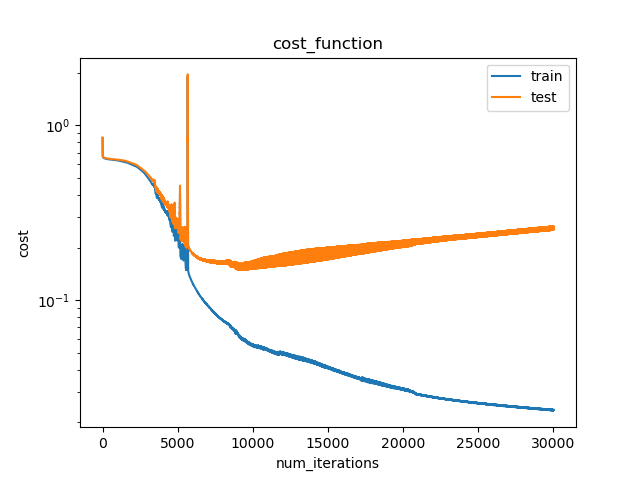
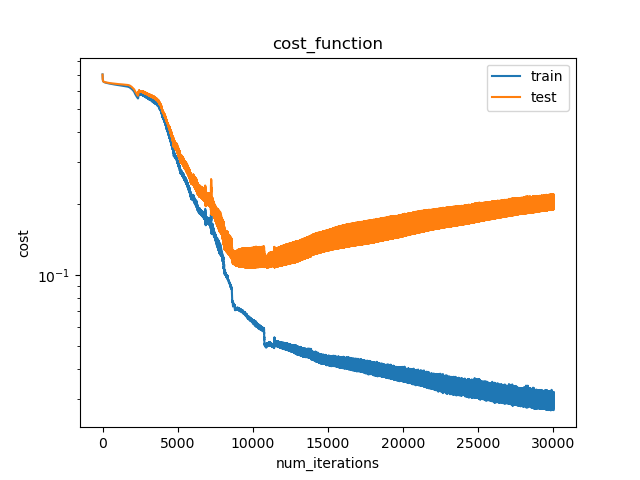
course 4 code notes image experiment b update

diff --git a/src/assignments/03-deep-neural-nn/deep_nn.py b/src/assignments/03-deep-neural-nn/deep_nn.py
@@ -56,6 +56,10 @@ def initialize_parameters_deep(layer_dims,seed=None):
 
     if (seed != None):
         np.random.seed(seed)
+    else:
+        np.random.seed(42)
+
+
 
     for l in range(1,len(layer_dims)):
 
@@ -466,17 +470,24 @@ def experiment_B(X,Y,X_test,Y_test):
 
     _,_,test_accuracy_randn,_ = historys_to_test(historys_randn)
 
+    plt.figure(figsize=(18, 5))
+
     for i in range(L):
-        horizontal = np.arange(1, len(history["cost_list"]) + 1)
-        plt.plot(horizontal, historys[i]["cost_list"], label=f"He")
-        plt.plot(horizontal, historys_randn[i]["cost_list"], label=f"randn")
-        plt.title(f"B-{i+1}")
+        plt.subplot(1, L, i + 1)
+
+        horizontal = np.arange(1, len(historys[i]["cost_list"]) + 1)
+
+        plt.plot(horizontal, historys[i]["cost_list"], label="He")
+        plt.plot(horizontal, historys_randn[i]["cost_list"], label="randn")
+
+        plt.title(f"B-{i + 1}")
         plt.xlabel("num_iterations")
         plt.ylabel("cost")
         plt.yscale("log")
         plt.legend()
-        plt.show()
 
+    plt.tight_layout()
+    plt.show()
     return test_accuracy_He,test_accuracy_randn
 
 
@@ -600,7 +611,6 @@ def main():
         A_layer_dim={}
         A_layer_dim["A-4"]= [2, 256, 1]
 
-        parameters_seeds=initialize_parameters_deep(A_layer_dim["A-4"],1)
         parameters,history=L_layer_model(X_train, Y_train, A_layer_dim[f"A-{4}"], 100000, 0.2, X_test, Y_test)
         min_iteration,train_accuracy,test_accuracy,first_iteration_array=historys_to_test([history])
         print("A-4 추가 실험 " ,"레이어 수: ",A_layer_dim["A-4"],"파리미터 수: ",count_params(A_layer_dim["A-4"]) ,
@@ -612,10 +622,10 @@ def main():
         experiment_A_extra2(X_train,Y_train,X_test,Y_test)
 
     
-    run_experiment_A_result()
-    plt.show()
-    run_experiment_A_extra1()
-    run_experiment_A_extra2()
+    #run_experiment_A_result()
+    #plt.show()
+    #run_experiment_A_extra1()
+    #run_experiment_A_extra2()
 
 
     def run_experiment_B():

diff --git a/src/assignments/03-deep-neural-nn/notes.md b/src/assignments/03-deep-neural-nn/notes.md
@@ -15,7 +15,7 @@
 ```
 
 결과 
-> 기울기 오차: 1.6398449336340596e-11
+> 기울기 오차: 5.575216857834489e-11
 
 <hr>
 
@@ -92,14 +92,14 @@
 ```
 
 결과 
-> 훈련 정확도:  0.9975 시험 정확도:  0.948
+> 훈련 정확도:  0.9875 시험 정확도:  0.953
 
 <hr>
 
 ### 2.4 비용곡선 
 
 
-![Alt text](../../../images/04-deep-nn/deep_cost_train_02.png)
+![Alt text](../../../images/04-deep-nn/deep_cost_train_01.png)
 
 <hr>
 
@@ -110,18 +110,18 @@
 
 | # | 설정 | 파라미터 수 | 학습 정확도 | 시험 정확도 | 시험 정확도 90% 도달 | 시험 비용 최소 지점 |
 | :-- | :-- | --: | --: | --: | --: | --: |
-| A-1 | `[2, 1]` | 3 | 61.5% | 61.7% | - | 588회 |
-| A-2 | `[2, 16, 1]` | 65 | 65.0% | 60.0% | - | 9,609회 |
-| A-3 | `[2, 64, 1]` | 257 | 65.5% | 62.6% | - | 6,274회 |
-| A-4 | `[2, 256, 1]` | 1,025 | 96.5% | 92.3% | 26,200회 | 29,795회 |
-| A-5 | `[2, 16, 16, 1]` | 337 | 100.0% | 95.4% | 2,600회 | 4,165회 |
-| A-6 | `[2, 32, 16, 8, 1]` | 769 | 100.0% | 95.3% | 1,000회 | 2,784회 |
+| A-1 | `[2, 1]` | 3 | 61.5% | 61.7% | - | 607회 |
+| A-2 | `[2, 16, 1]` | 65 | 69.5% | 68.0% | - | 15,029회 |
+| A-3 | `[2, 64, 1]` | 257 | 77.5% | 74.6% | - | 24,312회 |
+| A-4 | `[2, 256, 1]` | 1,025 | 88.75% | 86.4% | - | 30,000회 |
+| A-5 | `[2, 16, 16, 1]` | 337 | 98.75% | 95.3% | 7,200회 | 9,867회 |
+| A-6 | `[2, 32, 16, 8, 1]` | 769 | 100.0% | 95% | 800회 | 1,294회 |
 
 <hr>
 
 **A-1, A-5, A-6 결정경계**
 
-![Alt text](../../../images/04-deep-nn/A-1,A-5,A-6%20결정경계2.png)
+![Alt text](../../../images/04-deep-nn/A-1,A-5,A-6%20결정경계3.png)
 
 
 <hr>
@@ -131,8 +131,8 @@
 
 | # | 학습 정확도 | 시험 정확도 | 시험 정확도 90% 도달 | 시험 비용 최소 지점 |
 | :-- | --: | --: | --: | --: |
-| A-4 | 98.5% | 93.7% | 26,200회 | 29,795회 |
-| A-4 추가 실험 | 99.5% | 95.1% | 26,200회 | 41,680회 |
+| A-4 | 88.75% | 86.4% | -회 | 30000회 |
+| A-4 추가 실험 | 99.75% | 94.5% | 31,300회 | 83,100회 |
 
 <hr>
 
@@ -155,23 +155,18 @@
 
 | # | layer_dims | He 초기화 | randn  | 
 | :-- | --: | --: | --: | 
-| B-1 | [2, 16, 1]   | 66.1% | 73.9% |
-| B-2 | [2, 16, 16, 1] | 95.6% | 95.0% |
-| B-3 | [2, 32, 16, 8, 1] | 95.6% |	62.3% |
+| B-1 | [2, 16, 1]   | 68% | 73.9% |
+| B-2 | [2, 16, 16, 1] | 95.3% | 61.6% |
+| B-3 | [2, 32, 16, 8, 1] | 95.6% |	61.2% |
 
 <hr>
 
 ### 4.2 비용 곡선 
 
-**He 초기화**
-
-![Alt text](../../../images/04-deep-nn/deep_cost_train_HE.png)
 
 
-**randn * 0.01 초기화**
+![Alt text](../../../images/04-deep-nn/deep_cost_train_b_1_2_3.png)
 
-
-![Alt text](../../../images/04-deep-nn/deep_cost_train_randn.png)
 
 
 
